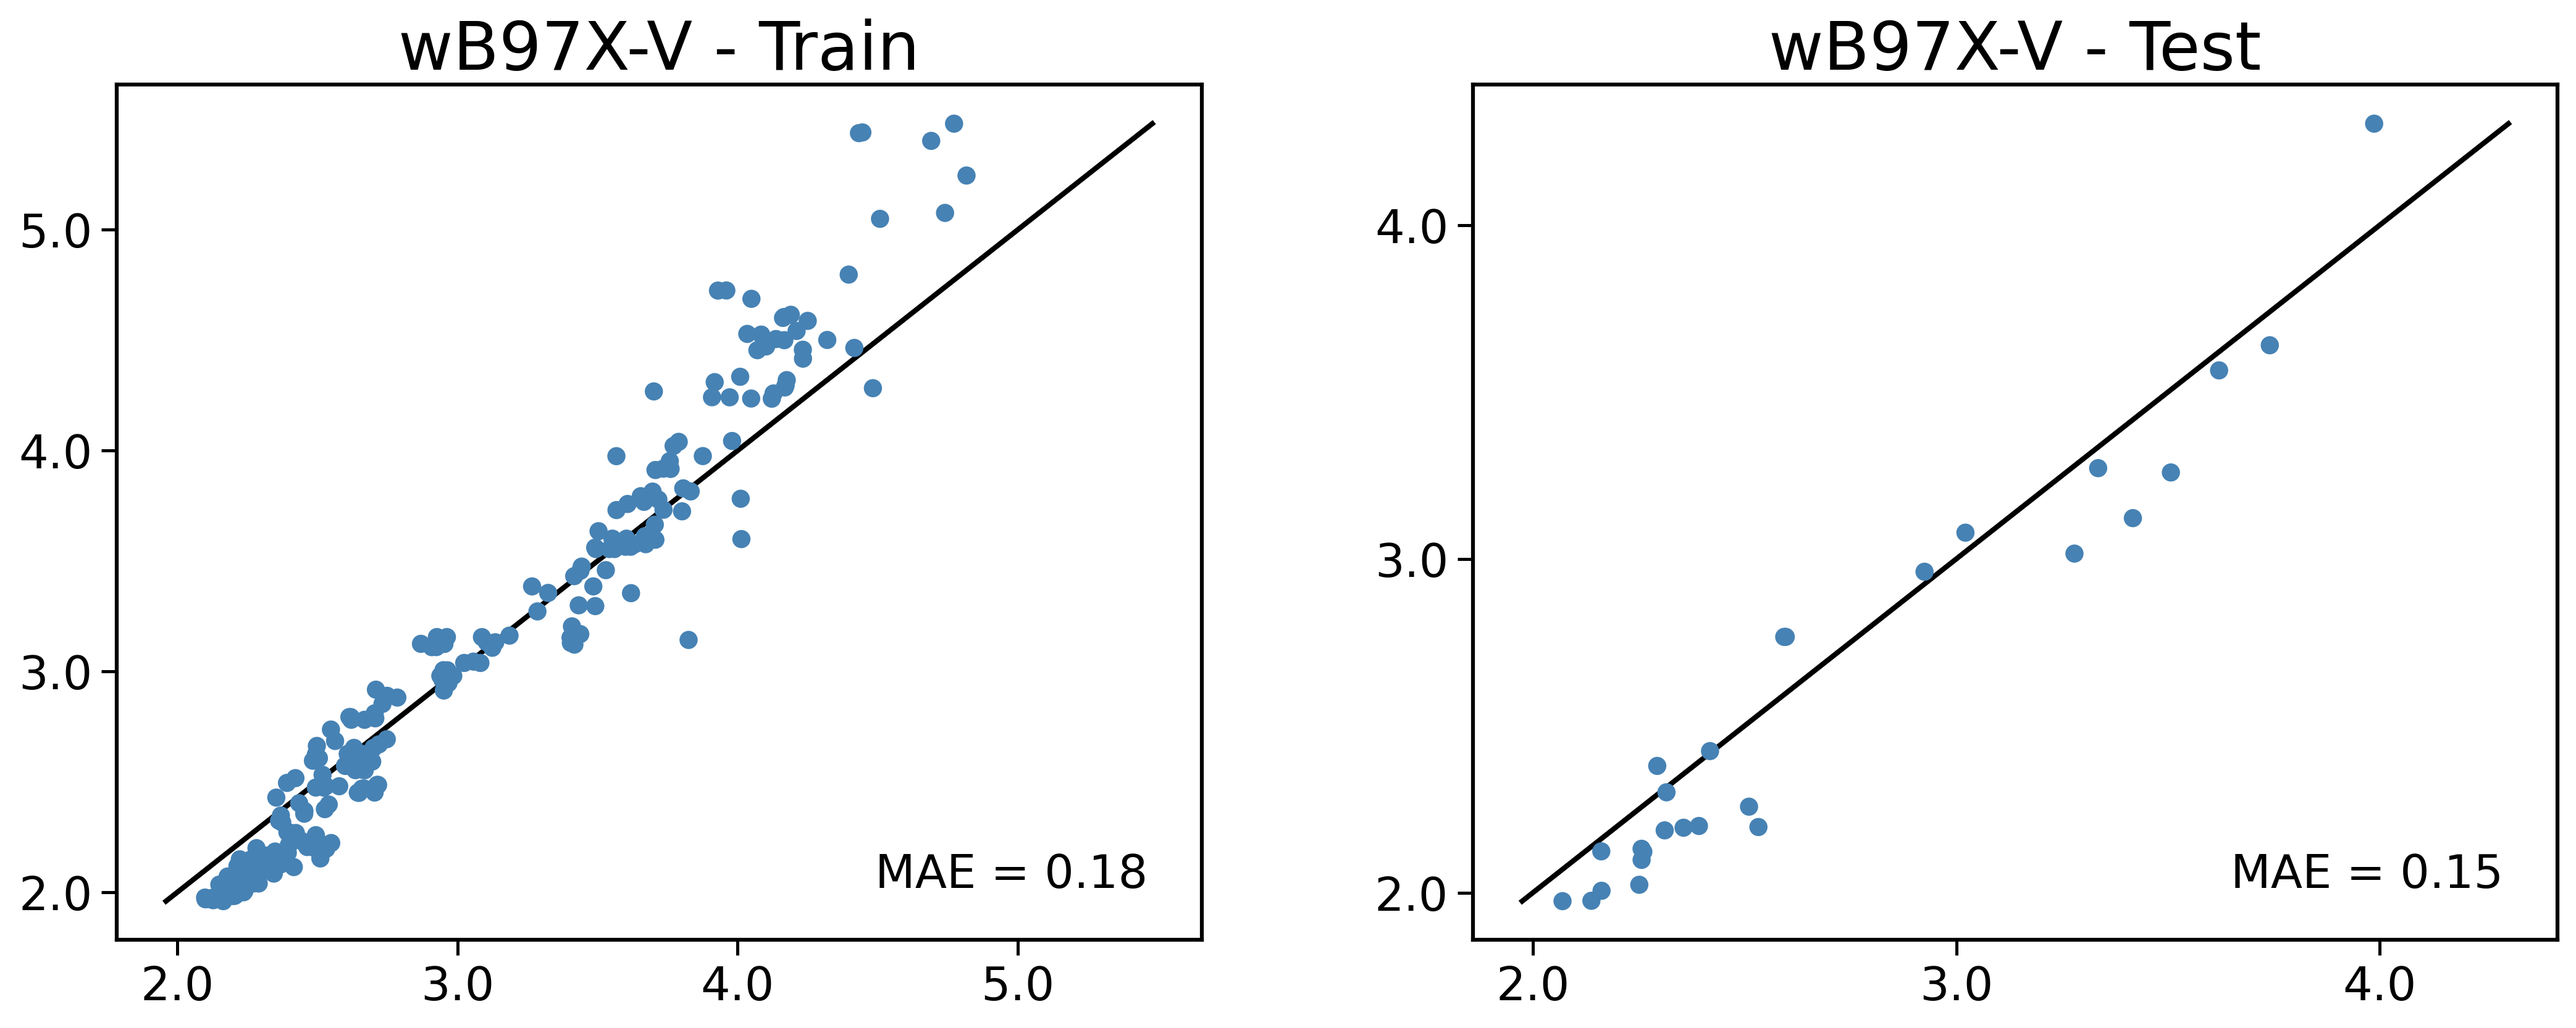
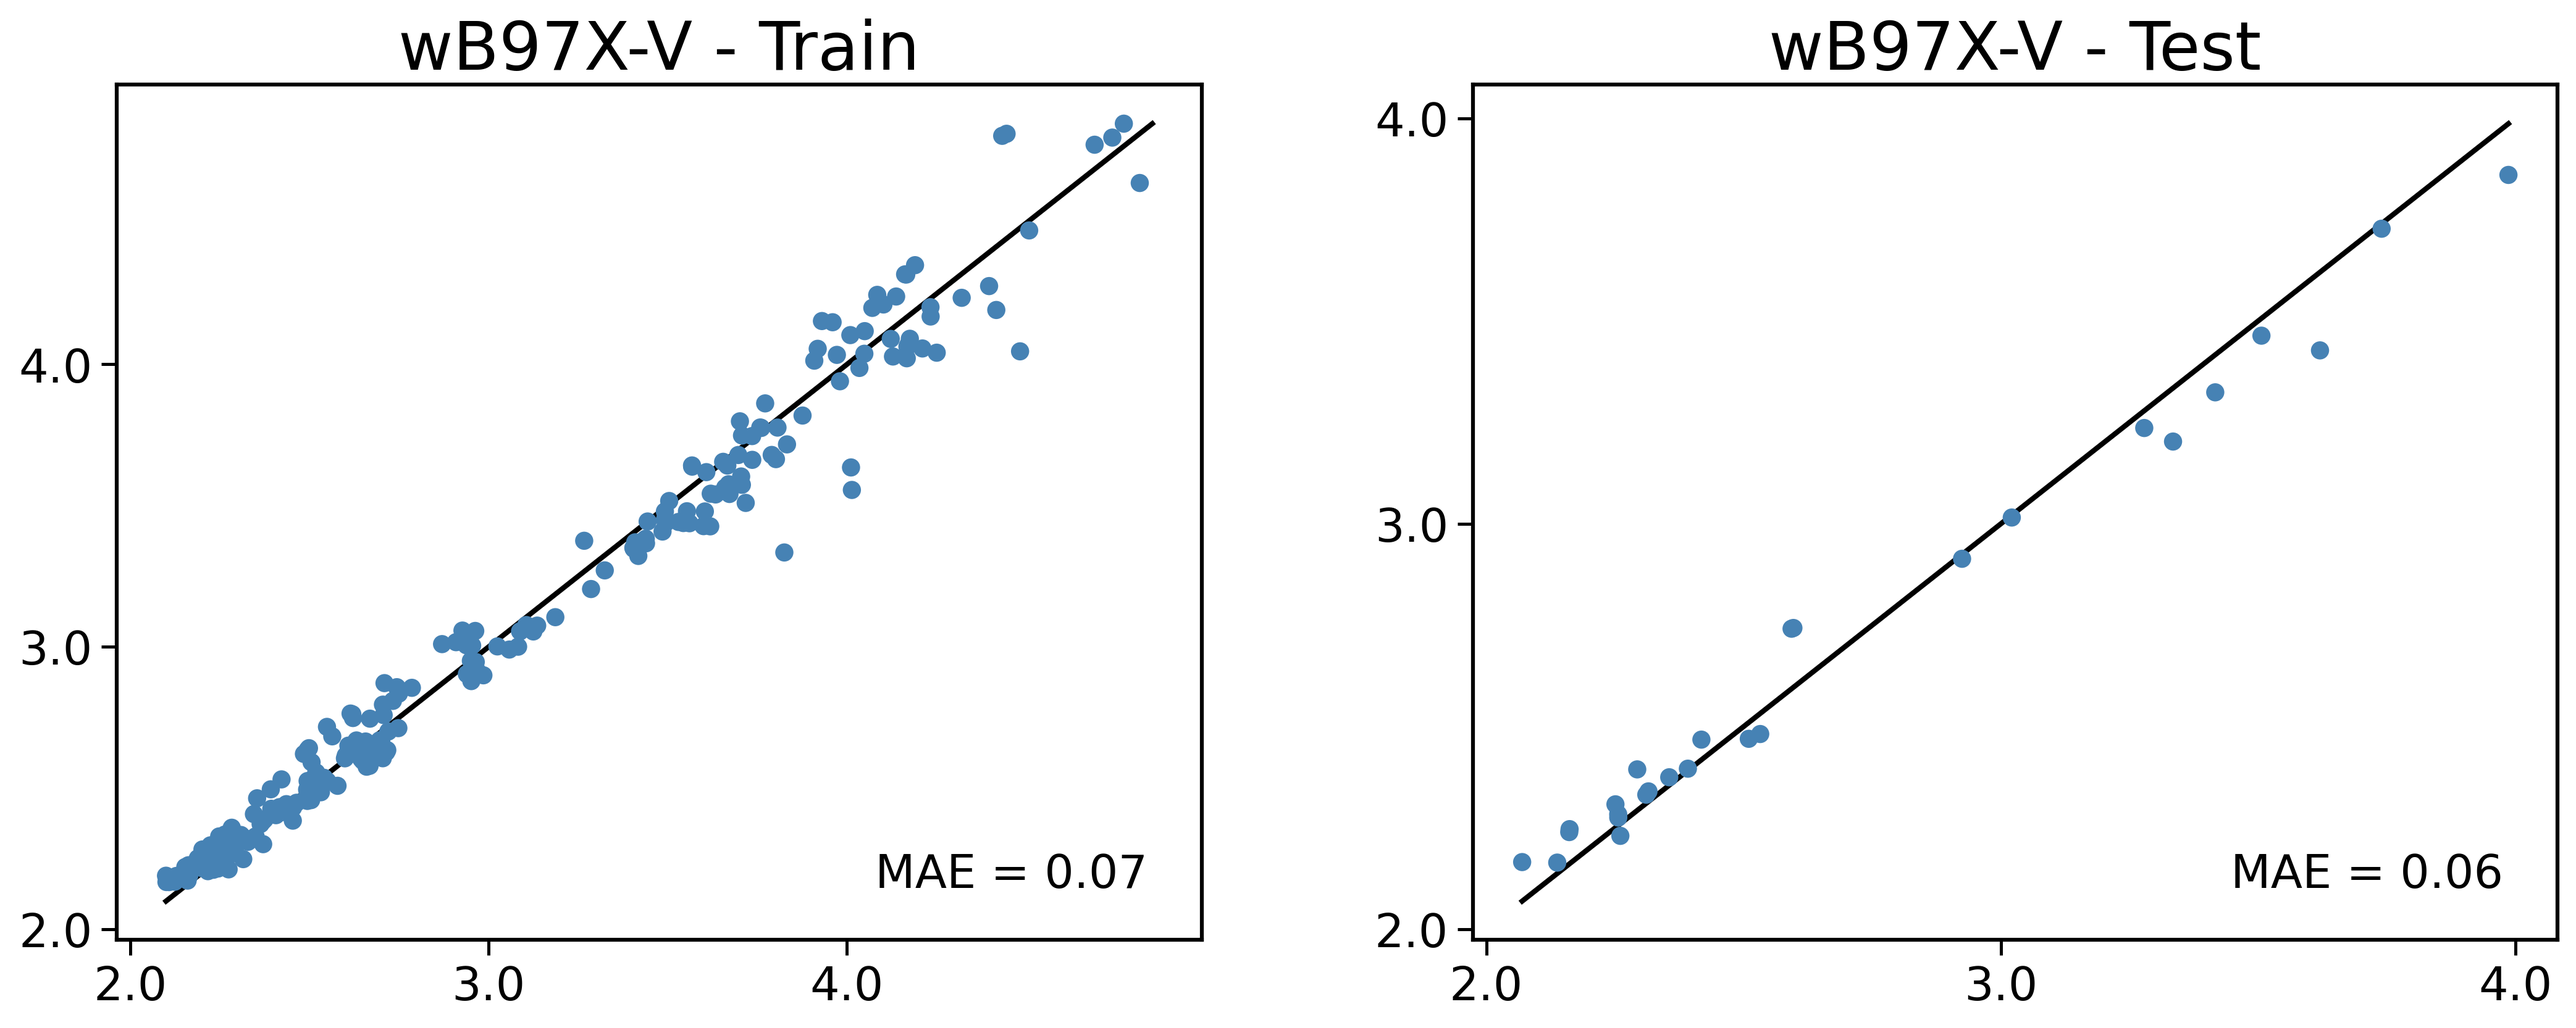
minor improvements to -v and mp2

diff --git a/time_select/moo.py b/time_select/moo.py
@@ -182,6 +182,13 @@ time_polynomials = {
                 (1.0, 2.0),
                 ],
             "coarse_method": "Powell",
+            "coarse_options": {
+                "maxiter": 400, 
+                "maxfev": 6000, 
+                "xtol": 1e-10, 
+                "ftol": 1e-10, 
+                "disp": True
+                },
             "run_tight": True,
             "tight_method": "L-BFGS-B",
             "tight_delta": [
@@ -199,17 +206,17 @@ time_polynomials = {
         "poly": lambda p, n_occ, n_virt, nbf_aux: (
             p[0]
             + p[1] * (n_occ * (n_occ + n_virt) ** 2 * nbf_aux)
-            + p[2] * ((n_occ + n_virt) ** 2 * nbf_aux)
+            + p[2] * ((n_occ + n_virt) ** p[3] * nbf_aux)
         ),
         "coeffs": {
-            "n_params": 3,
+            "n_params": 4,
             "guess": [
                 30.20909883e01,
                 # 3.81966012e-05,
                 # 3.81966012e-08,
                 1.67912758e-10,
                 1.97912758e-8,
-                # 1.50049297,
+                1.50049297,
                 ],
             "bounds": [
                 (0.0, None),
@@ -217,7 +224,7 @@ time_polynomials = {
                 # (1.0e-15, 1.0e-6),
                 (1.0e-15, 1.0e-6),
                 (1.0e-15, 1.0e-6),
-                # (1.0, 2.0),
+                (1.0, 2.0),
                 ],
             "coarse_method": "Powell",
             "run_tight": True,
@@ -228,7 +235,7 @@ time_polynomials = {
                 # 1.0e-6,
                 1.0e-11,
                 1.0e-19,
-                # 0.5, # fine, doesnt really change that much anyways
+                0.5, # fine, doesnt really change that much anyways
             ],
         },
     },
@@ -357,7 +364,13 @@ time_polynomials = {
                 # (1.0e-15, 1.0e-6),
                 ],
             "coarse_method": "Powell",
-            "coarse_options": {"maxiter": 400, "maxfev": 6000, "xtol": 1e-10, "ftol": 1e-10, "disp": True},
+            "coarse_options": {
+                "maxiter": 400,
+                "maxfev": 6000, 
+                "xtol": 1e-10, 
+                "ftol": 1e-10, 
+                "disp": True
+                },
             "run_tight": True,
             "tight_method": "L-BFGS-B",
             "tight_delta":[

diff --git a/time_select/plots_latex/time_fit_template.tex b/time_select/plots_latex/time_fit_template.tex
@@ -11,9 +11,9 @@ PBE-D3 & 273 & 31 & 0.16 & 0.18 & \begin{tabular}{l}\(c_{0}=1.004e+00\) \\ \(c_{
 \hline
 wB97X-D & 243 & 28 & 0.17 & 0.15 & \begin{tabular}{l}\(c_{0}=4.733e-02\) \\ \(c_{1}=3.155e-08\) \\ \(c_{2}=2.057e-10\) \\ \(c_{3}=1.298e+00\)\end{tabular} & $\begin{array}{l}c_{0} \\ + c_{1}  \cdot  (N_{g}  \cdot  N_{bf} ^{c_{3}}) \\ + c_{2}  \cdot  (N_{occ}  \cdot  N_{aux}  \cdot  N_{bf} ^{2})\end{array}$ \\ 
 \hline
-wB97X-V & 240 & 27 & 0.18 & 0.15 & \begin{tabular}{l}\(c_{0}=6.812e+01\) \\ \(c_{1}=1.724e-08\) \\ \(c_{2}=7.579e-10\) \\ \(c_{3}=9.079e-11\) \\ \(c_{4}=1.019e+00\)\end{tabular} & $\begin{array}{l}c_{0} \\ + c_{1}  \cdot  (N_{bf} ^{c_{4}}  \cdot  N_{aux}^{2}) \\ + c_{2}  \cdot  (N_{occ}  \cdot  N_{aux}  \cdot  N_{bf} ^{2}) \\ + c_{3}  \cdot  (N_{g} ^{2})\end{array}$ \\ 
+wB97X-V & 240 & 27 & 0.07 & 0.06 & \begin{tabular}{l}\(c_{0}=7.463e-12\) \\ \(c_{1}=1.859e-09\) \\ \(c_{2}=6.195e-11\) \\ \(c_{3}=8.888e-10\) \\ \(c_{4}=1.377e+00\)\end{tabular} & $\begin{array}{l}c_{0} \\ + c_{1}  \cdot  (N_{bf} ^{c_{4}}  \cdot  N_{aux}^{2}) \\ + c_{2}  \cdot  (N_{occ}  \cdot  N_{aux}  \cdot  N_{bf} ^{2}) \\ + c_{3}  \cdot  (N_{g} ^{2})\end{array}$ \\ 
 \hline
-MP2 & 261 & 30 & 0.13 & 0.12 & \begin{tabular}{l}\(c_{0}=2.600e+00\) \\ \(c_{1}=1.579e-10\) \\ \(c_{2}=1.979e-08\)\end{tabular} & $\begin{array}{l}c_{0} \\ + c_{1}  \cdot  (N_{occ}  \cdot  N_{bf} ^{2}  \cdot  N_{aux}) \\ + c_{2}  \cdot  (N_{bf} ^{2}  \cdot  N_{aux})\end{array}$ \\ 
+MP2 & 261 & 30 & 0.09 & 0.11 & \begin{tabular}{l}\(c_{0}=6.137e+00\) \\ \(c_{1}=1.779e-10\) \\ \(c_{2}=1.979e-08\) \\ \(c_{3}=1.900e+00\)\end{tabular} & $\begin{array}{l}c_{0} \\ + c_{1}  \cdot  (N_{occ}  \cdot  N_{bf} ^{2}  \cdot  N_{aux}) \\ + c_{2}  \cdot  (N_{bf} ^{c_{3}}  \cdot  N_{aux})\end{array}$ \\ 
 \hline
 B3LYP-D3 & 284 & 32 & 0.16 & 0.15 & \begin{tabular}{l}\(c_{0}=1.867e+00\) \\ \(c_{1}=3.920e-09\) \\ \(c_{2}=1.120e-10\) \\ \(c_{3}=1.500e+00\)\end{tabular} & $\begin{array}{l}c_{0} \\ + c_{1}  \cdot  (N_{g}  \cdot  N_{bf} ^{c_{3}}) \\ + c_{2}  \cdot  (N_{occ}  \cdot  N_{aux}  \cdot  N_{bf} ^{2})\end{array}$ \\ 
 \hline
